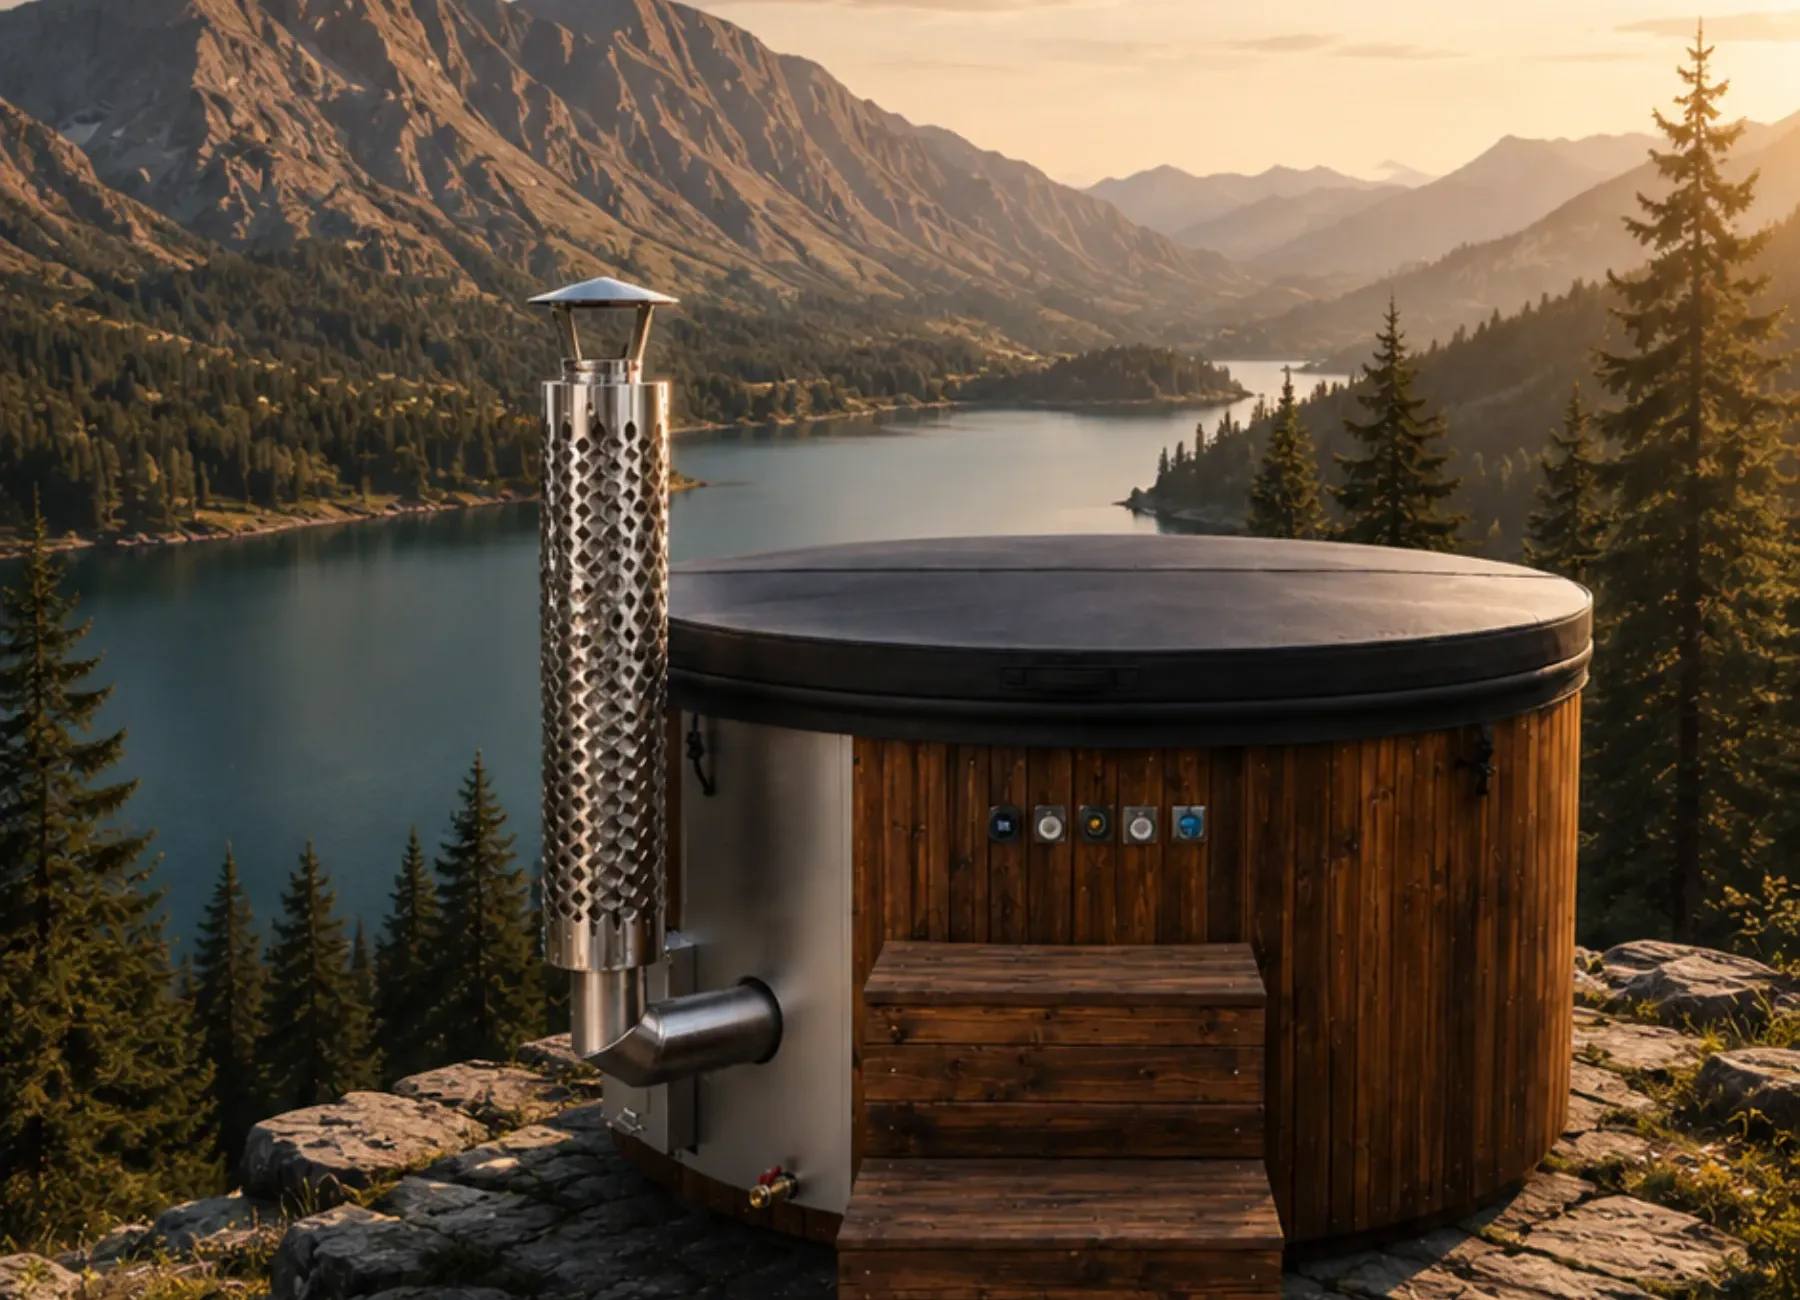
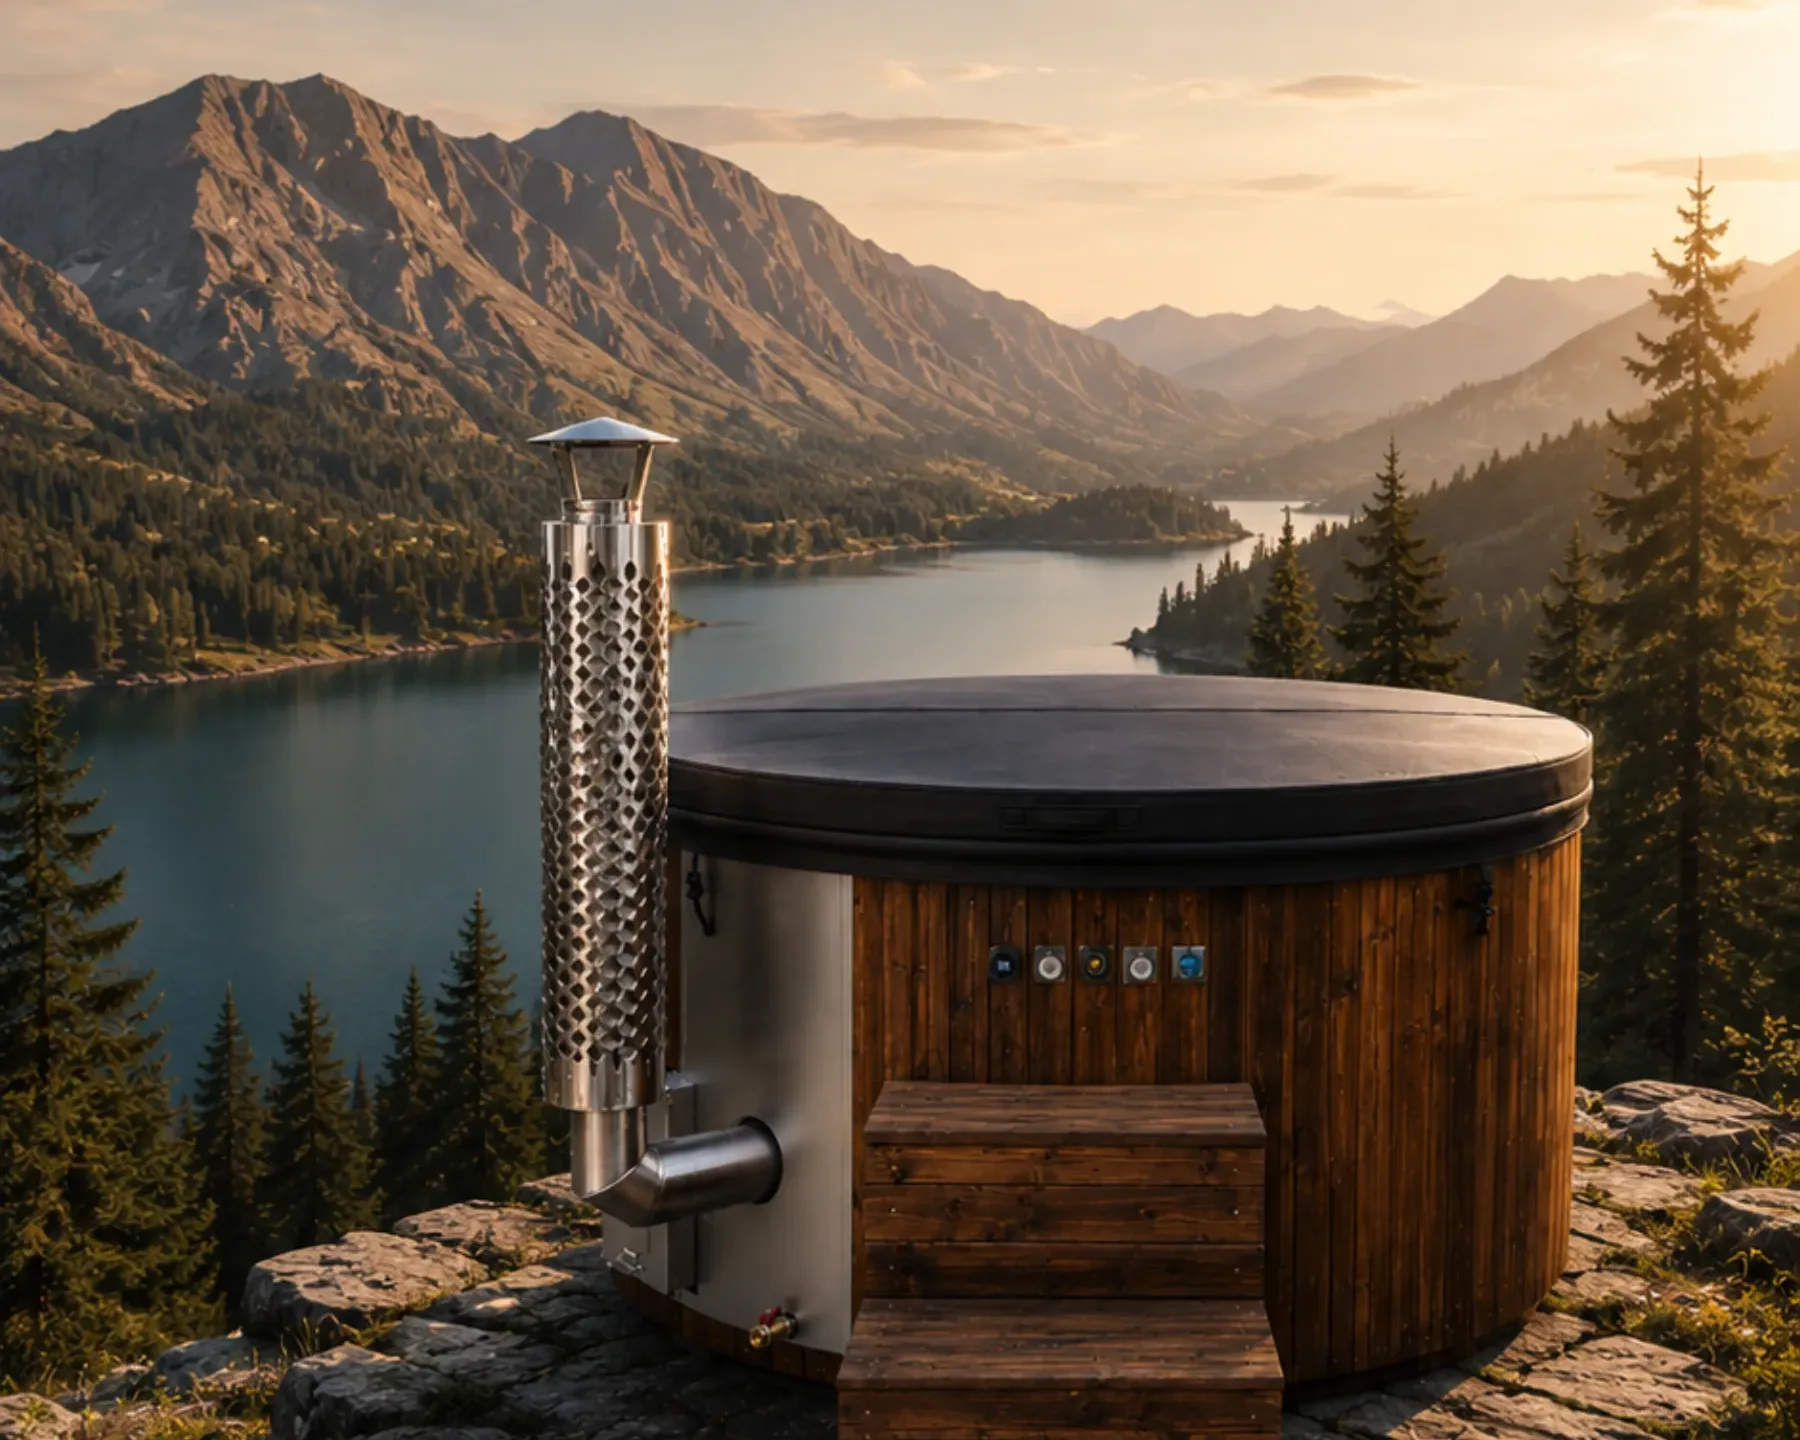
Hero mobil: ~25% spațiu deasupra hornului (5:4, mai mult peisaj)

diff --git a/src/components/Hero.tsx b/src/components/Hero.tsx
@@ -50,10 +50,10 @@ export default function Hero() {
             sizes="100vw"
             alt="Ciubăr premium PMPFiber pe malul unui lac de munte, la apus"
             width={1800}
-            height={1300}
+            height={1440}
             fetchPriority="high"
             decoding="async"
-            className="aspect-[18/13] w-full object-cover"
+            className="aspect-[5/4] w-full object-cover"
           />
           {/* Scrim sus pentru navbar */}
           <div className="pointer-events-none absolute inset-x-0 top-0 h-28 bg-gradient-to-b from-ink-950/75 to-transparent" />